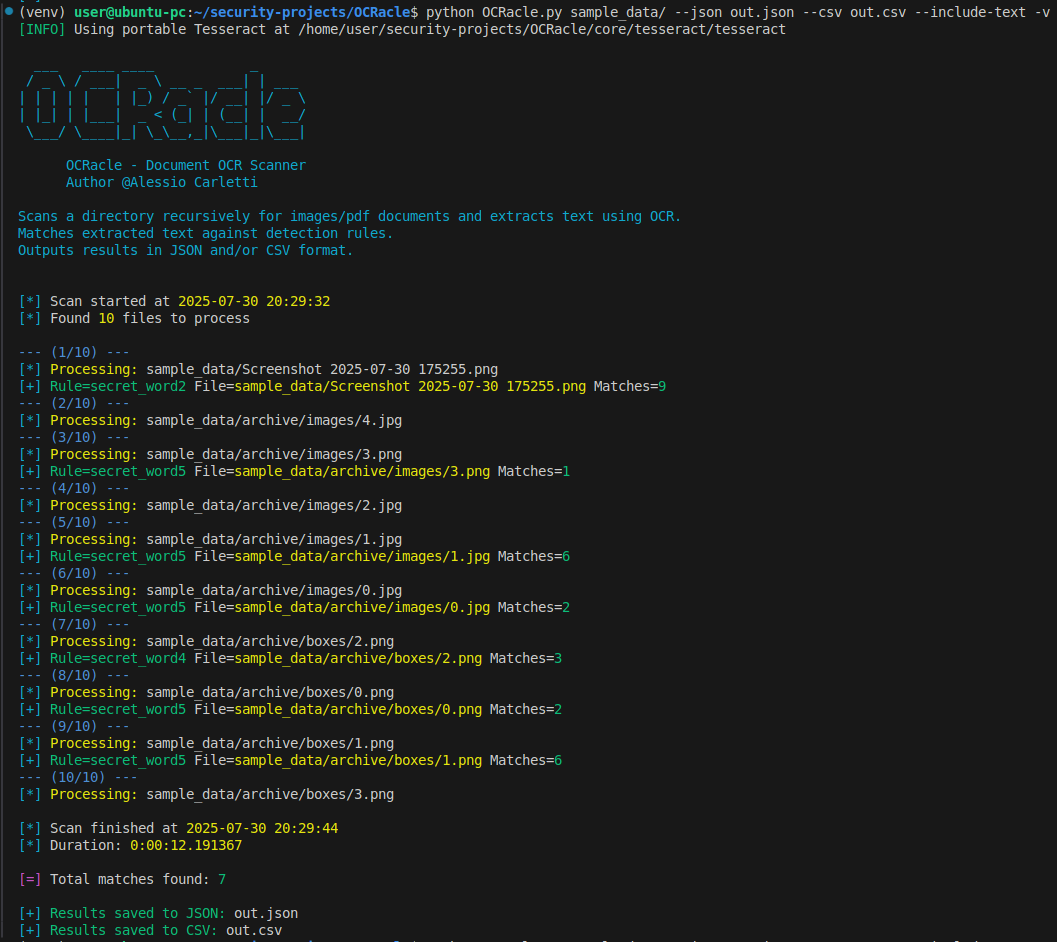
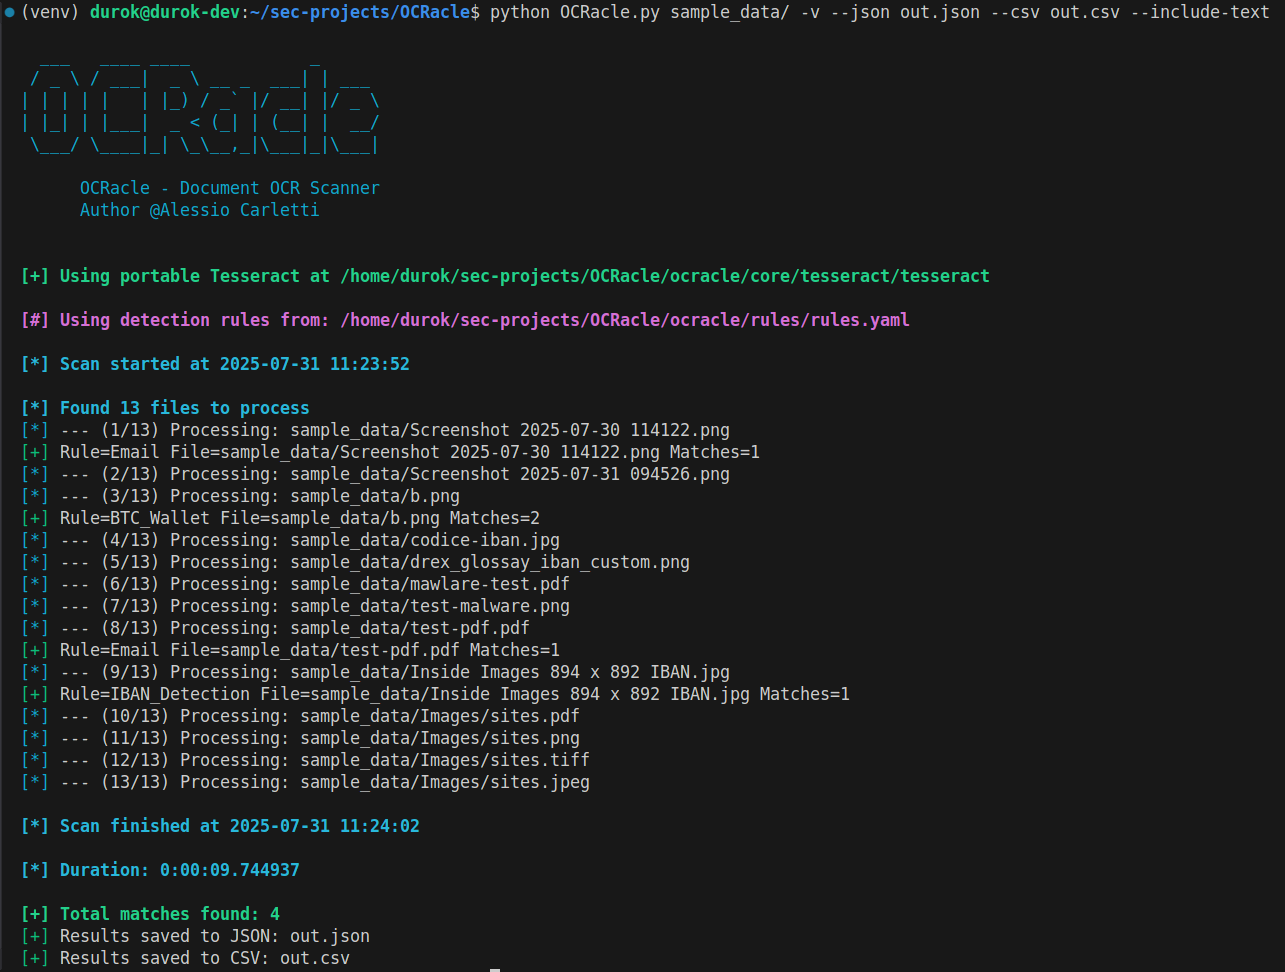
Update Readme

Changed region(s): [[0.0, 0.0, 0.9991, 1.0]]

diff --git a/OCRacle.py b/OCRacle.py
@@ -1,8 +1,10 @@
-import sys
-import os
+import argparse
 from colorama import init, Fore, Style
 from ocracle.core.scanner import Scanner
-from ocracle.core.report import ReportWriter  # Usa il nuovo ReportWriter
+from ocracle.core.report import ReportWriter
+from ocracle.utils.formatter import ColorHelpFormatter
+from ocracle.config.config import default_rules_path
+
 
 
 def main():
@@ -16,58 +18,32 @@ def main():
         
       OCRacle - Document OCR Scanner
       Author @Alessio Carletti
-          
-Scans a directory recursively for images/pdf documents and extracts text using OCR.
-Matches extracted text against detection rules.
-Outputs results in JSON and/or CSV format.
 """ + Style.RESET_ALL)
 
-    if len(sys.argv) < 2:
-        print(Fore.WHITE + f"Usage: python {sys.argv[0]} <directory> [--json output.json] [--csv output.csv] [--include-text] [-v|--verbose] [--rules rules.yaml]" + Style.RESET_ALL)
-        print(Fore.WHITE + "  <directory>         Directory to scan for images" + Style.RESET_ALL)
-        print(Fore.WHITE + "  --json output.json  (Optional) Save results to JSON file" + Style.RESET_ALL)
-        print(Fore.WHITE + "  --csv output.csv    (Optional) Save results to CSV file" + Style.RESET_ALL)
-        print(Fore.WHITE + "  --include-text      (Optional) Include extracted text in the results" + Style.RESET_ALL)
-        print(Fore.WHITE + "  -v / --verbose      (Optional) Show files being processed" + Style.RESET_ALL)
-        print(Fore.WHITE + "  --rules file.yaml   (Optional) Custom YAML rules file" + Style.RESET_ALL)
-        sys.exit(1)
-
-    base_path = sys.argv[1]
-    json_path = None
-    csv_path = None
-    include_text = False
-    verbose = False
-
-    # Default rules path
-    default_rules_path = os.path.join(
-        os.path.dirname(__file__), "ocracle", "rules", "rules.yaml"
+    parser = argparse.ArgumentParser(
+        description=f"{Fore.CYAN}Recursively scan a directory for documents (PDF/images) and detect sensitive data.{Style.RESET_ALL}",
+        formatter_class=ColorHelpFormatter
     )
-    rule_file = default_rules_path
+    parser.add_argument("directory", help="Directory to scan for images and PDFs")
+    parser.add_argument("--json", dest="json_path", help="Save results to JSON file")
+    parser.add_argument("--csv", dest="csv_path", help="Save results to CSV file")
+    parser.add_argument("--include-text", action="store_true", help="Include full extracted text in results")
+    parser.add_argument("-v", "--verbose", action="store_true", help="Show files being processed")
+    parser.add_argument("--rules", dest="rule_file", default=default_rules_path,
+                        help=f"Custom YAML rules file (default: {default_rules_path})")
 
-    # Parse options
-    args = sys.argv[2:]
-    for i, arg in enumerate(args):
-        if arg == "--json" and i + 1 < len(args):
-            json_path = args[i + 1]
-        if arg == "--csv" and i + 1 < len(args):
-            csv_path = args[i + 1]
-        if arg == "--include-text":
-            include_text = True
-        if arg in ("-v", "--verbose"):
-            verbose = True
-        if arg == "--rules" and i + 1 < len(args):
-            rule_file = args[i + 1]
+    args = parser.parse_args()
 
-    # Perform the scan (pass rule_file to Scanner)
-    scanner = Scanner(rule_file=rule_file)
-    results = scanner.scan(base_path, include_text=include_text, verbose=verbose)
+    # Perform the scan
+    scanner = Scanner(rule_file=args.rule_file)
+    results = scanner.scan(args.directory, include_text=args.include_text, verbose=args.verbose)
 
-    # Use ReportWriter instead of output_writer
+    # Export
     report_writer = ReportWriter()
-    if json_path:
-        report_writer.to_json(results, json_path)
-    if csv_path:
-        report_writer.to_csv(results, csv_path)
+    if args.json_path:
+        report_writer.to_json(results, args.json_path)
+    if args.csv_path:
+        report_writer.to_csv(results, args.csv_path)
 
 
 if __name__ == "__main__":

diff --git a/ocracle/utils/logger.py b/ocracle/utils/logger.py
@@ -14,20 +14,24 @@ def warning(message: str):
 def error(message: str):
     print(f"{Fore.RED}[!]{Style.RESET_ALL} {message}")
 
-# --- Varianti con spazio prima e dopo ---
+def highlight(message: str):
+    """Special highlighted log (magenta)."""
+    print(f"{Fore.MAGENTA}[#]{Style.RESET_ALL} {message}")
+
+# --- Varianti block ---
 
 def info_block(message: str):
-    """Info log with blank lines before and after, fully colored."""
     print(f"\n{Fore.CYAN}{Style.BRIGHT}[*] {message}{Style.RESET_ALL}")
 
 def success_block(message: str):
-    """Success log with blank lines before and after, fully colored."""
     print(f"\n{Fore.GREEN}{Style.BRIGHT}[+] {message}{Style.RESET_ALL}")
 
 def warning_block(message: str):
-    """Warning log with blank lines before and after, fully colored."""
     print(f"\n{Fore.YELLOW}{Style.BRIGHT}[!] {message}{Style.RESET_ALL}")
 
 def error_block(message: str):
-    """Error log with blank lines before and after, fully colored."""
     print(f"\n{Fore.RED}{Style.BRIGHT}[!] {message}{Style.RESET_ALL}")
+
+def highlight_block(message: str):
+    """Special highlighted log (magenta) with blank lines."""
+    print(f"\n{Fore.MAGENTA}{Style.BRIGHT}[#] {message}{Style.RESET_ALL}")

diff --git a/ocracle/utils/formatter.py b/ocracle/utils/formatter.py
@@ -1,0 +1,24 @@
+from argparse import HelpFormatter
+from colorama import Fore, Style
+
+class ColorHelpFormatter(HelpFormatter):
+    """Custom formatter to colorize argparse help output."""
+    def __init__(self, prog):
+        super().__init__(prog, max_help_position=40, width=100)
+
+    def start_section(self, heading):
+        heading = f"{Fore.GREEN}{Style.BRIGHT}{heading.upper()}{Style.RESET_ALL}"
+        super().start_section(heading)
+
+    def _format_action_invocation(self, action):
+        # Color argument names
+        if not action.option_strings:
+            return super()._format_action_invocation(action)
+        return f"{Fore.YELLOW}{', '.join(action.option_strings)}{Style.RESET_ALL}"
+
+    def _metavar_formatter(self, action, default_metavar):
+        # Color metavariables (e.g., FILE)
+        formatter = super()._metavar_formatter(action, default_metavar)
+        return lambda tuple_size: tuple(
+            f"{Fore.MAGENTA}{m}{Style.RESET_ALL}" for m in formatter(tuple_size)
+        )

diff --git a/ocracle/core/scanner.py b/ocracle/core/scanner.py
@@ -40,6 +40,10 @@ class Scanner:
 
     def scan(self, base_path: str, include_text: bool = False, verbose: bool = False) -> List[Result]:
         """Scan a directory: detect files, extract text, apply rules."""
+
+        # Show which rule file is being used
+        logger.highlight_block(f"Using detection rules from: {self.config.rule_file}")
+
         start_time = datetime.now()
         logger.info_block(f"Scan started at {start_time:%Y-%m-%d %H:%M:%S}")
 

diff --git a/ocracle/config/config.py b/ocracle/config/config.py
@@ -10,5 +10,6 @@ MAGIC_SIGNATURES = {
 }
 
 default_rules_path = os.path.join(
-        os.path.dirname(__file__), "ocracle", "rules", "rules.yaml"
-    )
+    os.path.dirname(os.path.abspath(__file__)), "..", "rules", "rules.yaml"
+)
+default_rules_path = os.path.normpath(default_rules_path)

diff --git a/README.md b/README.md
@@ -108,6 +108,10 @@ Copy the **entire OCRacle folder (including wheels/, requirements.txt, and code)
 
 ## 🚀 **Usage**
 
+<p align="center">
+    <img src=".img/readme-help.png" alt="Help" width="600"/>
+</p>
+
 Console only:
 
 ```bash
